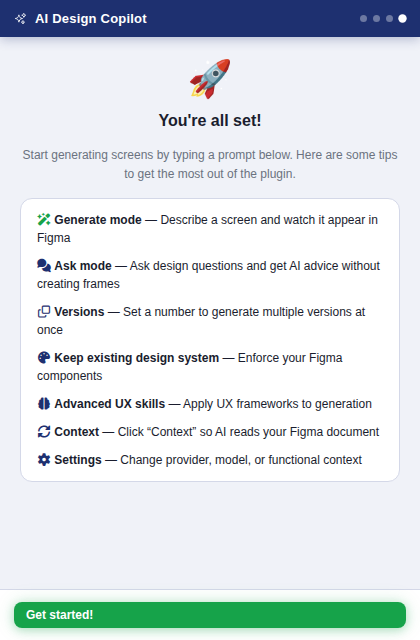
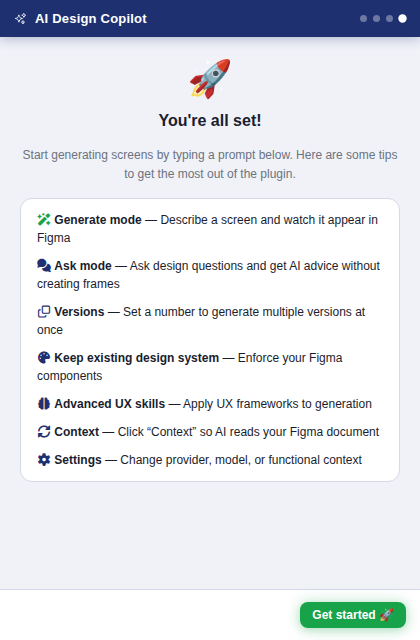
fix: compact + right-align isolated Get started button at end of onboarding

Changed region(s): [[0.0, 0.9375, 0.9286, 1.0]]

diff --git a/ui.html b/ui.html
@@ -1033,6 +1033,11 @@
       display: flex;
       align-items: center;
       gap: 8px;
+      margin-left: auto;
+    }
+
+    #ob-next-btn {
+      flex: none;
     }
 
     /* ── Onboarding: provider icon + instructions ─────────────── */

diff --git a/scripts/gen-screenshots.py b/scripts/gen-screenshots.py
@@ -378,8 +378,8 @@ html = make_html("""
     </div>
   </div>
   <div class="onboarding-nav">
-    <div class="onboarding-nav__right" style="width:100%">
-      <button class="btn btn--primary" type="button" style="flex:1">Get started!</button>
+    <div class="onboarding-nav__right">
+      <button class="btn btn--primary" id="ob-next-btn" type="button">Get started 🚀</button>
     </div>
   </div>
 </div>
